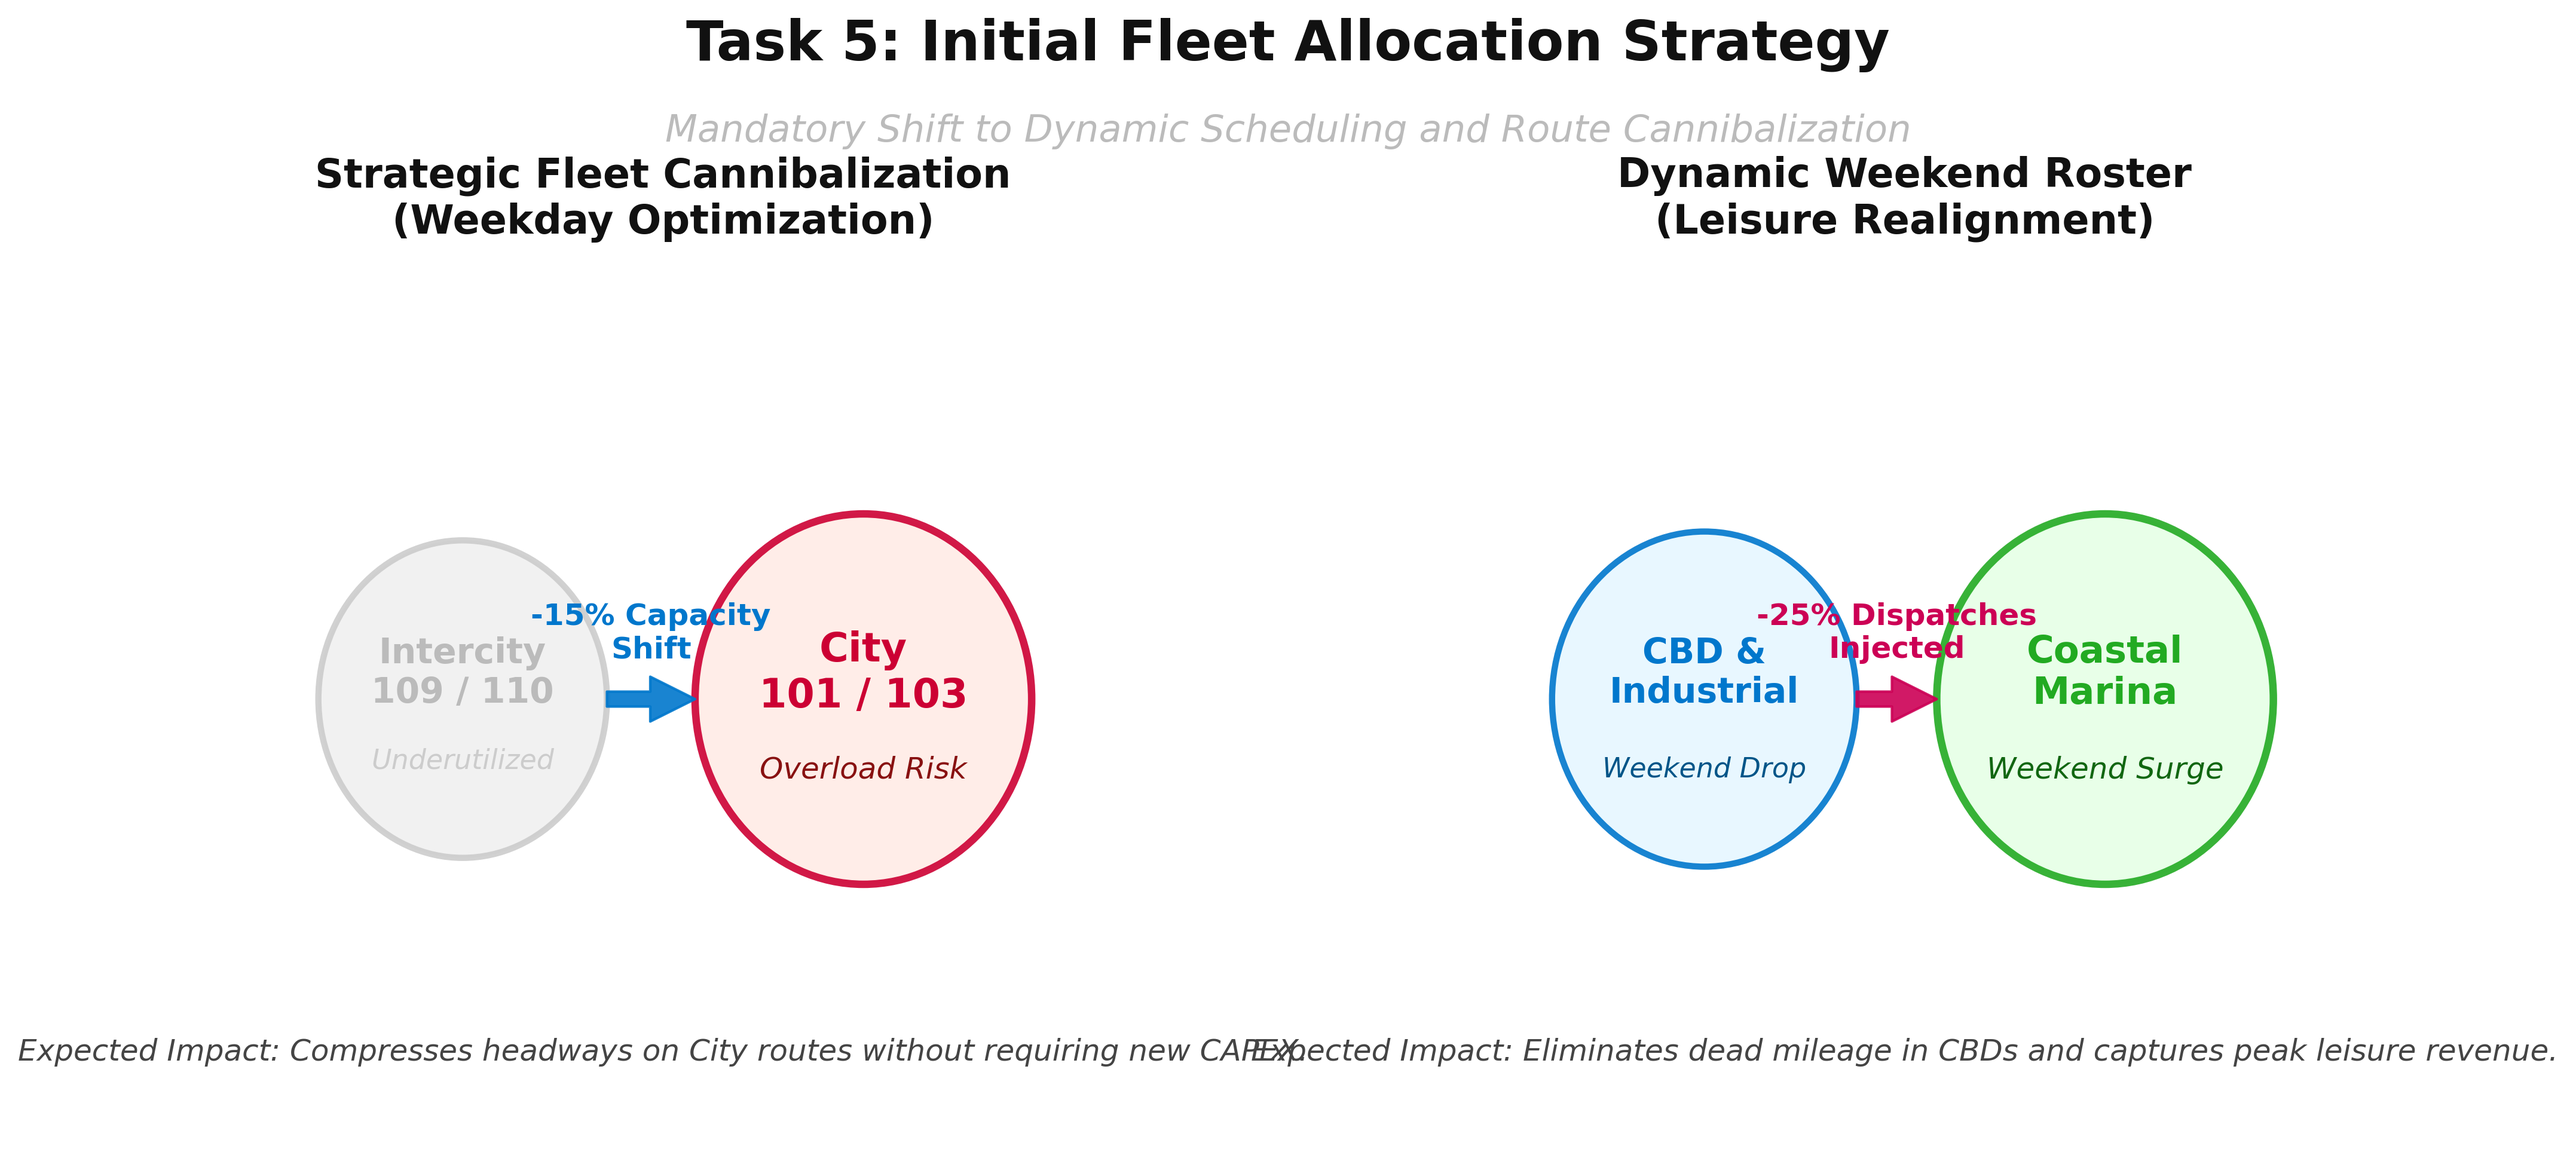
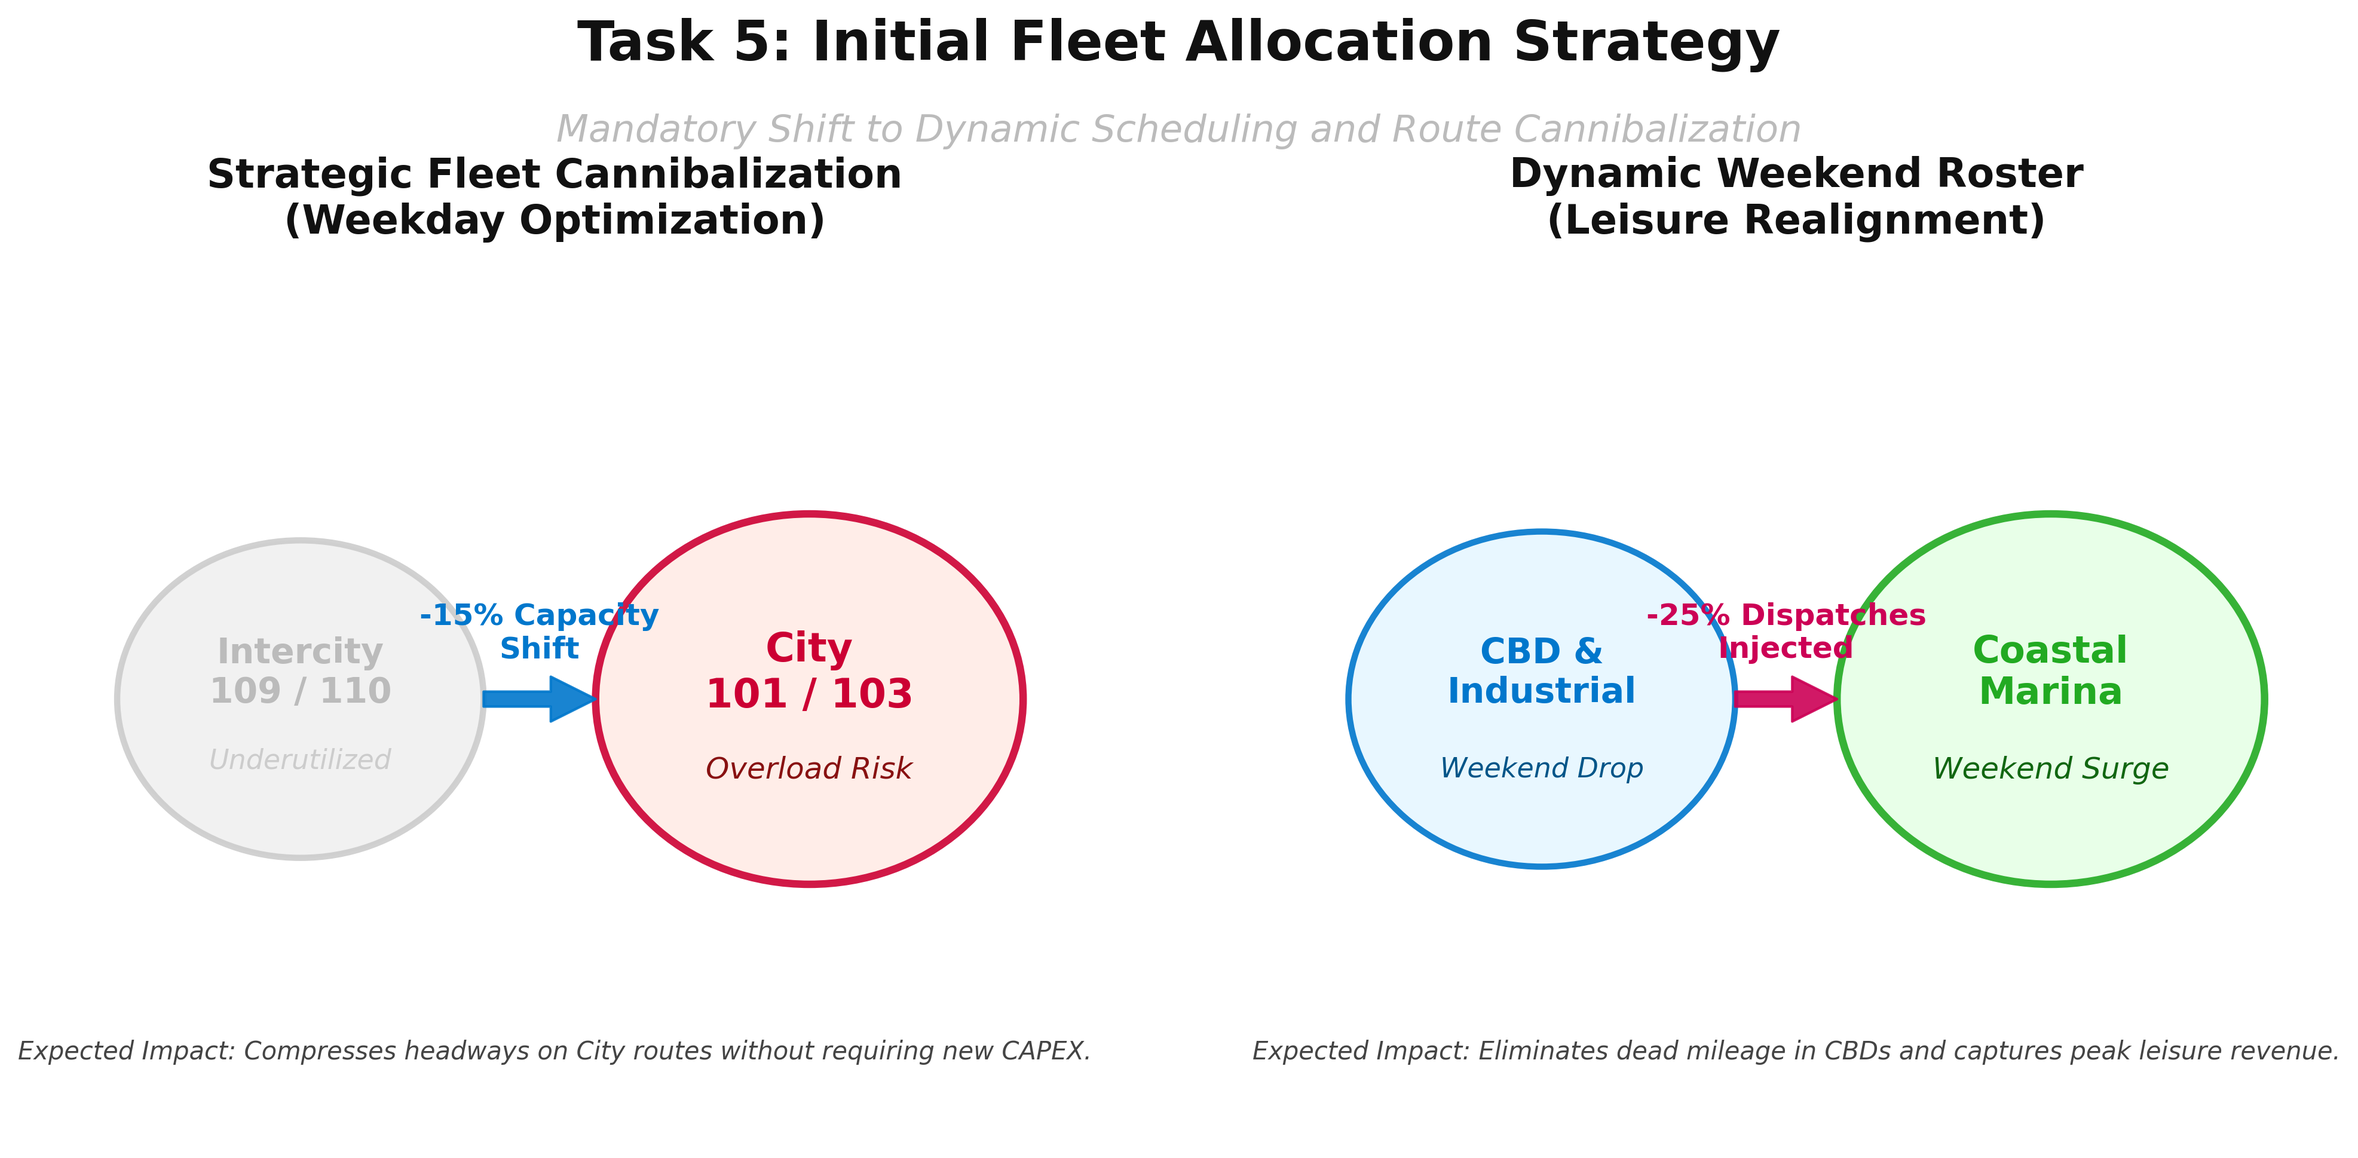
Task 5 plot update

diff --git a/plots_code/plot_task5.py b/plots_code/plot_task5.py
@@ -57,10 +57,10 @@ ax2.text(4.9, 5.4, '-25% Dispatches\nInjected', ha='center', va='bottom', fontsi
 
 # Add Impact Subtitles
 ax1.text(5, 1, "Expected Impact: Compresses headways on City routes without requiring new CAPEX.", 
-         ha='center', va='center', fontsize=12, fontstyle='italic', color='#444444')
+         ha='center', va='center', fontsize=10, fontstyle='italic', color='#444444')
 
 ax2.text(5, 1, "Expected Impact: Eliminates dead mileage in CBDs and captures peak leisure revenue.", 
-         ha='center', va='center', fontsize=12, fontstyle='italic', color='#444444')
+         ha='center', va='center', fontsize=10, fontstyle='italic', color='#444444')
 
 # ==========================================
 # Titles and Layout
